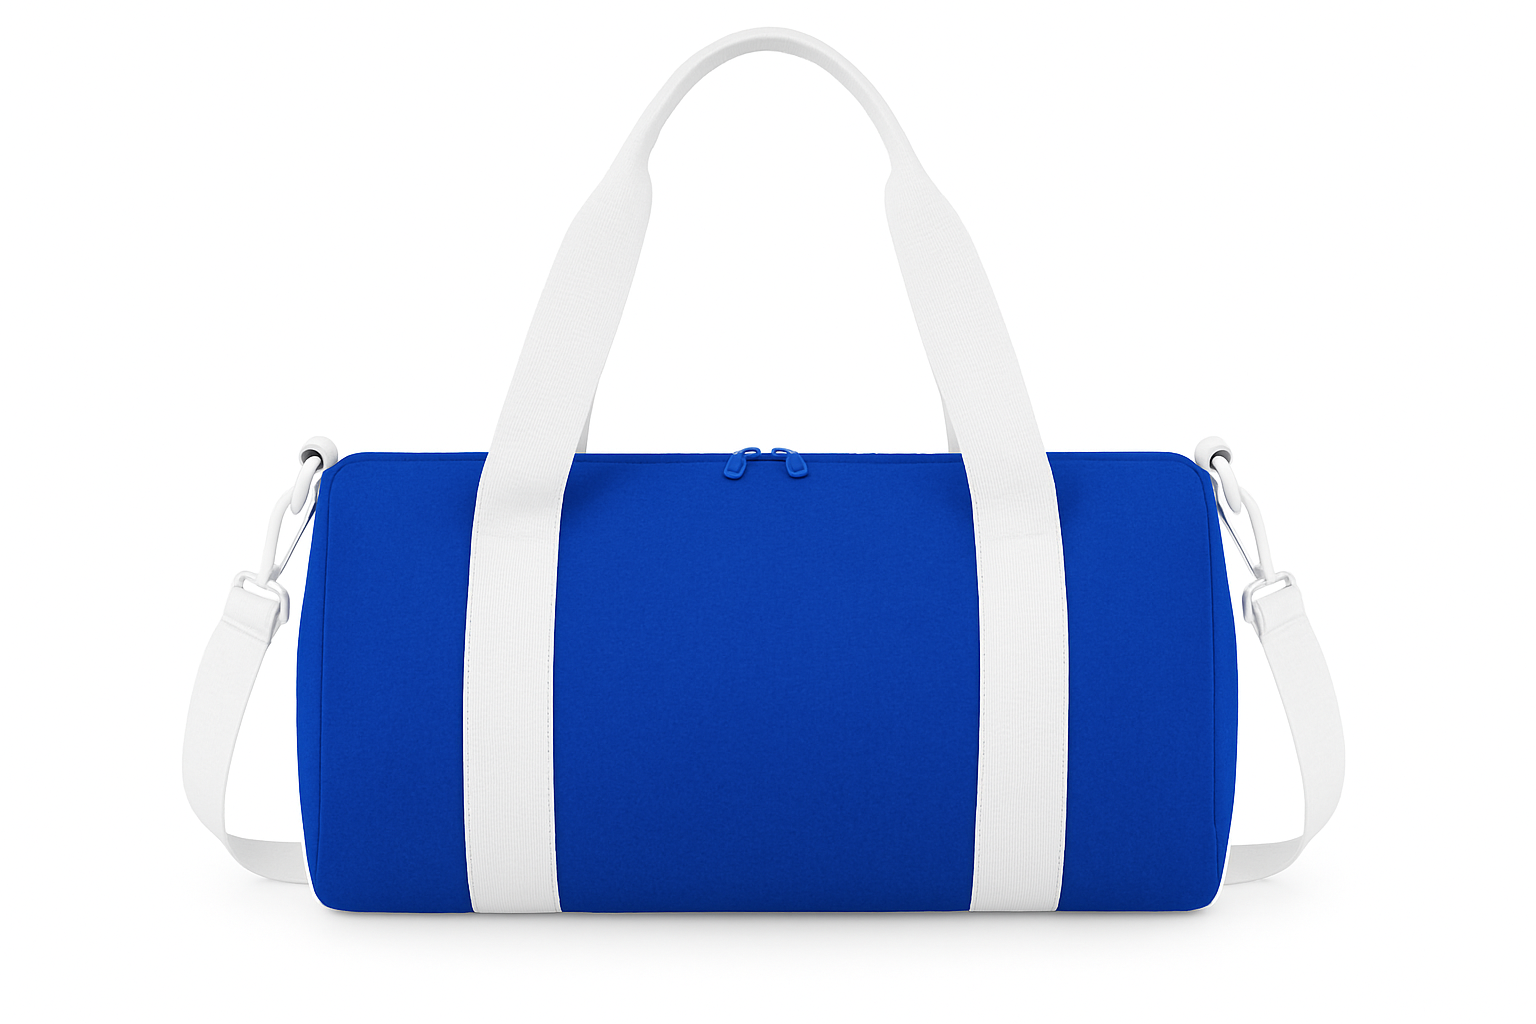
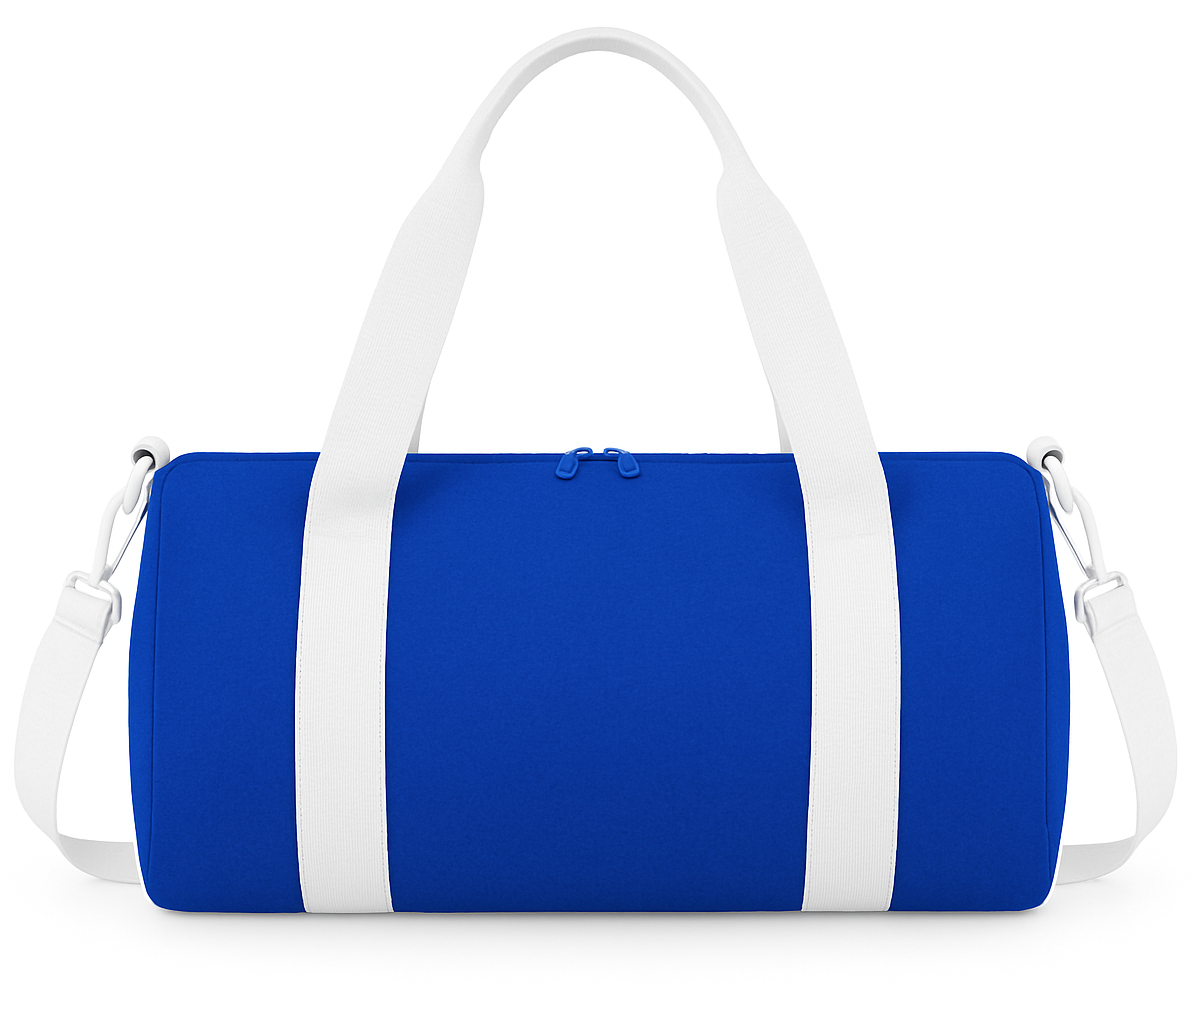
finish fuc for strap ("popruhy") color adjustment

diff --git a/static/assets/js/customizer/colors.js b/static/assets/js/customizer/colors.js
@@ -1,79 +1,123 @@
 'use strict';
 
 /**
- * Přepínání barev tašky (přes obrázky gymbag_{color}.png).
- * - Globální: žádné moduly; jen běží po načtení DOM.
- * - HTML: očekává #colorSwatches (s .swatch[data-color="..."]) a #productImg.
+ * Přepínání variant tašky podle dvou pickerů:
+ *  - barva těla (colorSwatches)      → data-color="black|red|green|blue|ping|grey"
+ *  - barva popruhu (strapSwatches)   → data-strap="black|white"
+ *
+ * Soubory jsou pojmenované:
+ *   gymbag_{color}.png                (popruh black)
+ *   gymbag_{color}_white.png          (popruh white)
+ *
+ * HTML očekává:
+ *   <div id="colorSwatches">  <button class="swatch" data-color="black">…</button> … </div>
+ *   <div id="strapSwatches">  <button class="swatch" data-strap="black">…</button>
+ *                              <button class="swatch" data-strap="white">…</button> </div>
+ *   <img id="productImg" …>
  */
-(function initColorsFeature(){
-  // Nastavení cest – uprav si podle svého umístění souborů
-  const IMG_BASE   = '../static/assets/img/customizer/';     // složka s obrázky
-  const IMG_PREFIX = 'gymbag_';       // prefix souboru
-  const IMG_EXT    = '.png';          // přípona
 
-  const swatchesContainer = document.getElementById('colorSwatches');
-  const productImg = document.getElementById('productImg');
+(function initColorsFeature() {
+  // --- cesty k obrázkům (uprav si dle projektu) ---
+  const IMG_BASE   = '../static/assets/img/customizer/';
+  const IMG_PREFIX = 'gymbag_';
+  const IMG_EXT    = '.png';
 
-  if (!swatchesContainer || !productImg) return;
+  // --- DOM odkazy ---
+  const colorSwatches = document.getElementById('colorSwatches');
+  const strapSwatches = document.getElementById('strapSwatches'); // může, ale nemusí existovat
+  const productImg    = document.getElementById('productImg');
 
-  // barvy (musí odpovídat názvům souborů po prefixu)
-  const COLORS = ['black','red','green','blue','ping','grey'];
+  if (!colorSwatches || !productImg) return; // bez těchto nemáme co dělat
 
-  // pro rychlejší přepínání si obrázky přednačteme
-  const cache = new Map();
-  function preload(color){
-    const url = `${IMG_BASE}${IMG_PREFIX}${color}${IMG_EXT}`;
-    if (cache.has(color)) return cache.get(color);
+  // --- výchozí hodnoty + podpora ARIA/selected tříd ---
+  let currentColor = 'black';
+  let currentStrap = 'black'; // default = žádný postfix
+
+  // dostupné hodnoty (pro preload i validaci)
+  const COLORS = ['black', 'red', 'green', 'blue', 'ping', 'grey'];
+  const STRAPS = ['black', 'white'];
+
+  // --- cache & preload kombinací ---
+  const cache = new Map(); // klíč "color|strap" → Image
+
+  function keyFor(color, strap) {
+    return `${color}|${strap}`;
+  }
+
+  function urlFor(color, strap) {
+    const postfix = (strap === 'white') ? '_white' : '';
+    return `${IMG_BASE}${IMG_PREFIX}${color}${postfix}${IMG_EXT}`;
+  }
+
+  function preload(color, strap) {
+    const k = keyFor(color, strap);
+    if (cache.has(k)) return cache.get(k);
     const img = new Image();
-    img.src = url;
-    cache.set(color, img);
+    img.src = urlFor(color, strap);
+    cache.set(k, img);
     return img;
   }
-  COLORS.forEach(preload);
 
-  function setSelected(buttonEl){
-    // odeber označení všem
-    swatchesContainer.querySelectorAll('.swatch.is-selected').forEach(b => b.classList.remove('is-selected'));
-    // přidej aktivnímu
-    buttonEl.classList.add('is-selected');
-    // ARIA
-    swatchesContainer.querySelectorAll('.swatch[aria-selected="true"]').forEach(b => b.setAttribute('aria-selected','false'));
-    buttonEl.setAttribute('aria-selected','true');
-  }
+  // přednačti nejčastější kombinace (všechny barvy × oba popruhy)
+  COLORS.forEach(c => STRAPS.forEach(s => preload(c, s)));
 
-  function setProductColor(color, buttonEl){
-    const url = `${IMG_BASE}${IMG_PREFIX}${color}${IMG_EXT}`;
-    productImg.src = url;
-    setSelected(buttonEl);
-  }
-
-  // delegace kliků
-  swatchesContainer.addEventListener('click', (ev) => {
-    const btn = ev.target.closest('.swatch');
-    if (!btn) return;
-
-    const color = btn.dataset.color;
-    if (!color) return;
-
-    setProductColor(color, btn);
-  });
-
-  // podpora klávesnice (Enter/Space na fokusu swatche)
-  swatchesContainer.addEventListener('keydown', (ev) => {
-    const btn = ev.target.closest('.swatch');
-    if (!btn) return;
-    if (ev.key === 'Enter' || ev.key === ' ') {
-      ev.preventDefault();
-      const color = btn.dataset.color;
-      if (!color) return;
-      setProductColor(color, btn);
+  // --- utility pro .is-selected + aria-selected v konkrétním kontejneru ---
+  function markSelected(container, btn) {
+    container.querySelectorAll('.swatch.is-selected').forEach(b => b.classList.remove('is-selected'));
+    container.querySelectorAll('.swatch[aria-selected="true"]').forEach(b => b.setAttribute('aria-selected', 'false'));
+    if (btn) {
+      btn.classList.add('is-selected');
+      btn.setAttribute('aria-selected', 'true');
     }
-  });
-
-  // inicializace: najdi .is-selected a přepni na něj, ať je vše v sync
-  const initial = swatchesContainer.querySelector('.swatch.is-selected') || swatchesContainer.querySelector('.swatch');
-  if (initial) {
-    const color = initial.dataset.color || 'black';
-    setProductColor(color, initial);
   }
+
+  // --- vykreslení výsledku ---
+  function applyVariant() {
+    const src = urlFor(currentColor, currentStrap);
+    productImg.src = src;
+    // případně můžeme logovat:
+    // console.debug('[colors] variant:', { color: currentColor, strap: currentStrap, src });
+  }
+
+  // --- obsluha kliků/kláves pro oba pickery ---
+  function bindPicker(container, type /* 'color' | 'strap' */) {
+    if (!container) return;
+
+    function handle(btn) {
+      if (!btn) return;
+      const val = (type === 'color') ? btn.dataset.color : btn.dataset.strap;
+      if (!val) return;
+      if (type === 'color')   currentColor = val;
+      if (type === 'strap')   currentStrap = val;
+      markSelected(container, btn);
+      applyVariant();
+    }
+
+    container.addEventListener('click', (ev) => {
+      const btn = ev.target.closest('.swatch');
+      if (!btn || !container.contains(btn)) return;
+      handle(btn);
+    });
+
+    container.addEventListener('keydown', (ev) => {
+      const btn = ev.target.closest('.swatch');
+      if (!btn || !container.contains(btn)) return;
+      if (ev.key === 'Enter' || ev.key === ' ') {
+        ev.preventDefault();
+        handle(btn);
+      }
+    });
+
+    // inicializace z .is-selected (nebo vezmi první)
+    const initial = container.querySelector('.swatch.is-selected') || container.querySelector('.swatch');
+    if (initial) handle(initial);
+  }
+
+  // --- start ---
+  bindPicker(colorSwatches, 'color');
+  // Pokud druhý picker neexistuje, držíme default 'black' (bez postfixu)
+  bindPicker(strapSwatches, 'strap');
+
+  // kdyby žádný strap nebyl označen (picker chybí), přece jen vykresli variantu
+  applyVariant();
 })();

diff --git a/core/templates/core/partials/_customizer.html b/core/templates/core/partials/_customizer.html
@@ -84,20 +84,20 @@
         <div class=" row mb-5">
           <label class="form-label">Barva popruhu</label>
           <div
-            id="colorSwatches"
+            id="strapSwatches"
             class="swatches d-flex flex-wrap gap-2"
             role="listbox"
             aria-label="Výběr barvy tašky"
           >
             <button
               class="swatch btn btn-outline-secondary p-0 is-selected form-control-color form-control"
-              data-color="black"
+              data-strap="black"
               aria-label="Černá"
               title="Černá"
             ></button>
             <button
               class="swatch btn btn-outline-secondary p-0"
-              data-color="white"
+              data-strap="white"
               aria-label="Bílá"
               title="Bílá"
             ></button>

diff --git a/static/assets/css/customizer.css b/static/assets/css/customizer.css
@@ -55,6 +55,14 @@
   background: #dee;
 }
 
+.swatch[data-strap="black"] {
+  background: #141414;
+}
+.swatch[data-strap="white"] {
+  background: #ffe;
+  border: solid 2px rgba(0, 0, 0, 0.25);
+}
+
 /* Stage */
 .stage-wrap {
   position: relative;
